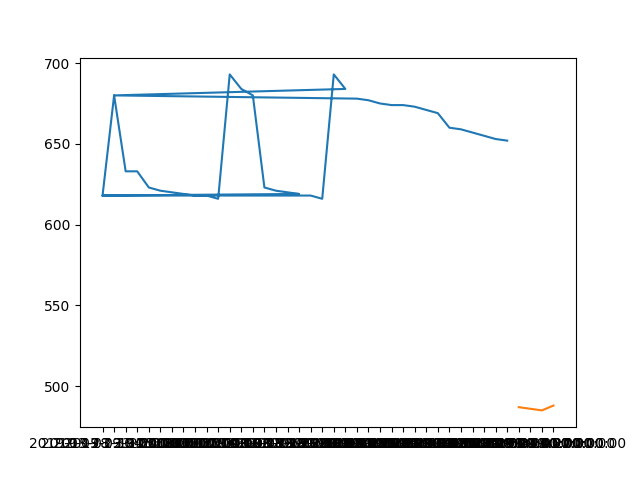
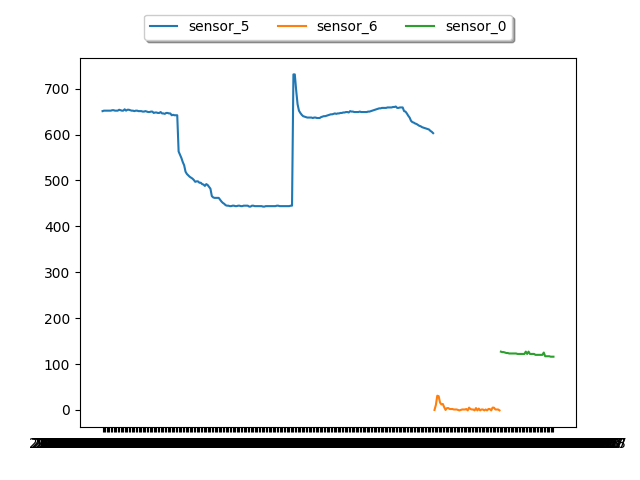
update sensordata graph

diff --git a/app/templates/dashboard_sensordata_statistics.html b/app/templates/dashboard_sensordata_statistics.html
@@ -185,25 +185,7 @@
                     <div class="form-group">    
                       <input type="text" class="form-control" name="set_sensors" value="{% if sensors != None %}{{ sensors }}{% endif %}" />                
                     </div>                    
-                  </div>  
-
-                  
-                  {{ time_min }}
-                  {{ time_max }}
-                  <br>
-                  <div class="well well-sm">Zeitraum: 
-
-                    <br>
-                    <span id="min_output"></span> - <span id="max_output"></span>
-                    <br>
-
-                    <div class="form-group">    
-                      <input id="min_input" type="range" class="slider" name="set_time_min" min="{{ time_min }}" max="{{ time_max }}" value="{{ time_min }}" />
-                      <input id="max_input" type="range" class="slider" name="set_time_max" min="{{ time_min }}" max="{{ time_max }}" value="{{ time_max }}" />
-                    </div>     
-                    
-
-                  </div>                    
+                  </div>                   
                 </div>
               </div>
               <div class="row justify-content-md-center">

diff --git a/app/sites/sensordata.py b/app/sites/sensordata.py
@@ -488,31 +488,31 @@ def dashboard_sensordata_statistics():
                 
                 try:
                     df_sensor_data = df_sensors[df_sensors['Sensor'].isin([selected_sensors[0]])]
-                    values_1 = (df_sensor_data['Timestamp'], df_sensor_data['Sensor_Value'])
+                    values_1 = (df_sensor_data['Timestamp'], df_sensor_data['Sensor_Value'], selected_sensors[0])
                 except:
                     values_1 = ""
                     
                 try:
                     df_sensor_data = df_sensors[df_sensors['Sensor'].isin([selected_sensors[1]])]
-                    values_2 = (df_sensor_data['Timestamp'], df_sensor_data['Sensor_Value'])
+                    values_2 = (df_sensor_data['Timestamp'], df_sensor_data['Sensor_Value'], selected_sensors[1])
                 except:
                     values_2 = ""
 
                 try:
                     df_sensor_data = df_sensors[df_sensors['Sensor'].isin([selected_sensors[2]])]
-                    values_3 = (df_sensor_data['Timestamp'], df_sensor_data['Sensor_Value'])
+                    values_3 = (df_sensor_data['Timestamp'], df_sensor_data['Sensor_Value'], selected_sensors[2])
                 except:
                     values_3 = ""
                 
                 try:
                     df_sensor_data = df_sensors[df_sensors['Sensor'].isin([selected_sensors[3]])]
-                    values_4 = (df_sensor_data['Timestamp'], df_sensor_data['Sensor_Value'])
+                    values_4 = (df_sensor_data['Timestamp'], df_sensor_data['Sensor_Value'], selected_sensors[3])
                 except:
                     values_4 = ""           
 
                 try:
                     df_sensor_data = df_sensors[df_sensors['Sensor'].isin([selected_sensors[4]])]
-                    values_5 = (df_sensor_data['Timestamp'], df_sensor_data['Sensor_Value'])
+                    values_5 = (df_sensor_data['Timestamp'], df_sensor_data['Sensor_Value'], selected_sensors[4])
                 except:
                     values_5 = ""
                 

diff --git a/app/components/build_graph.py b/app/components/build_graph.py
@@ -13,46 +13,58 @@ def BUILD_GRAPH(values_1, values_2 = "", values_3 = "", values_4 = "", values_5 
 	try:
 		x1_coordinates = values_1[0]
 		y1_coordinates = values_1[1]
+		graph_1_name   = values_1[2]
 		
 		try:
 			x2_coordinates = values_2[0]
 			y2_coordinates = values_2[1]
+			graph_2_name   = values_2[2]
 		except:
 			x2_coordinates = None
 	
 		try:
 			x3_coordinates = values_3[0]
 			y3_coordinates = values_3[1]
+			graph_3_name   = values_3[2]
 		except:
 			x3_coordinates = None	
 	
 		try:
 			x4_coordinates = values_4[0]
 			y4_coordinates = values_4[1]
+			graph_4_name   = values_4[2]
 		except:
 			x4_coordinates = None		
 	
 		try:
 			x5_coordinates = values_5[0]
 			y5_coordinates = values_5[1]
+			graph_5_name   = values_5[2]
 		except:
 			x5_coordinates = None		
 			
 		img = io.BytesIO()
 		  
-		plt.plot(x1_coordinates, y1_coordinates)
+		plt.plot(x1_coordinates, y1_coordinates, label=graph_1_name)
 
 		if x2_coordinates is not None:
-			plt.plot(x2_coordinates, y2_coordinates)
+			plt.plot(x2_coordinates, y2_coordinates, label=graph_2_name)
 
 		if x3_coordinates is not None:
-			plt.plot(x3_coordinates, y3_coordinates)
+			plt.plot(x3_coordinates, y3_coordinates, label=graph_3_name)
 
 		if x4_coordinates is not None:
-			plt.plot(x4_coordinates, y4_coordinates)
+			plt.plot(x4_coordinates, y4_coordinates, label=graph_4_name)
 
 		if x5_coordinates is not None:
-			plt.plot(x5_coordinates, y5_coordinates)
+			plt.plot(x5_coordinates, y5_coordinates, label=graph_5_name)
+			
+			
+		plt.xticks(rotation='vertical')
+
+		# Put a legend below current axis	
+		plt.legend(loc='upper center', bbox_to_anchor=(0.5, 1.135),
+				  ncol=3, fancybox=True, shadow=True)				
 				
 		plt.savefig(GET_PATH() + '/app/static/images/graph.png')
 		plt.close()

diff --git a/app/components/file_management.py b/app/components/file_management.py
@@ -83,7 +83,7 @@ def WRITE_LOGFILE_MQTT(gateway, channel, msg):
             csvfile.close()
 
     except Exception as e:
-        WRITE_LOGFILE_SYSTEM("ERROR", "File | /logs/log_" + gateway + ".csv | " + str(e))
+        print(str(e))
 
 
 def READ_LOGFILE_MQTT(gateway, channel, time):   
